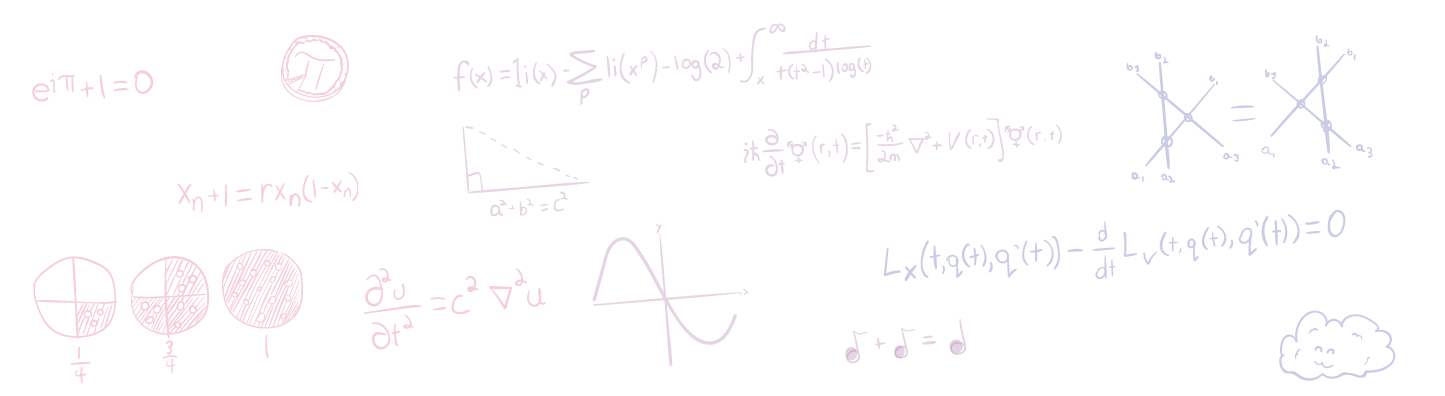
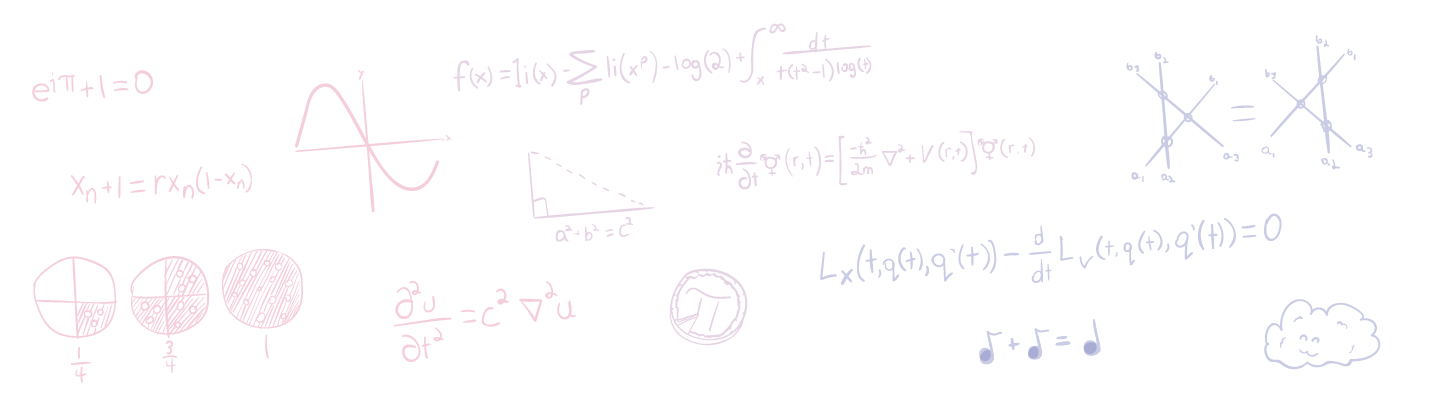
Alternate background image updated, subtitle font made less bold. Signed-off-by: Kimberly Clunie <kimberly.clunie@gmail.com>

diff --git a/assets/scss/template.scss b/assets/scss/template.scss
@@ -66,7 +66,7 @@
   font-family: "Montserrat",sans-serif;
   font-size: 1.1em;
   padding-top: 9.5em;
-  font-weight: bolder;
+
 }
 
 @keyframes float {
@@ -91,4 +91,8 @@
   100% {
     transform: translatey(0px);
   }
+}
+
+.powered-by {
+  display: none;
 }
